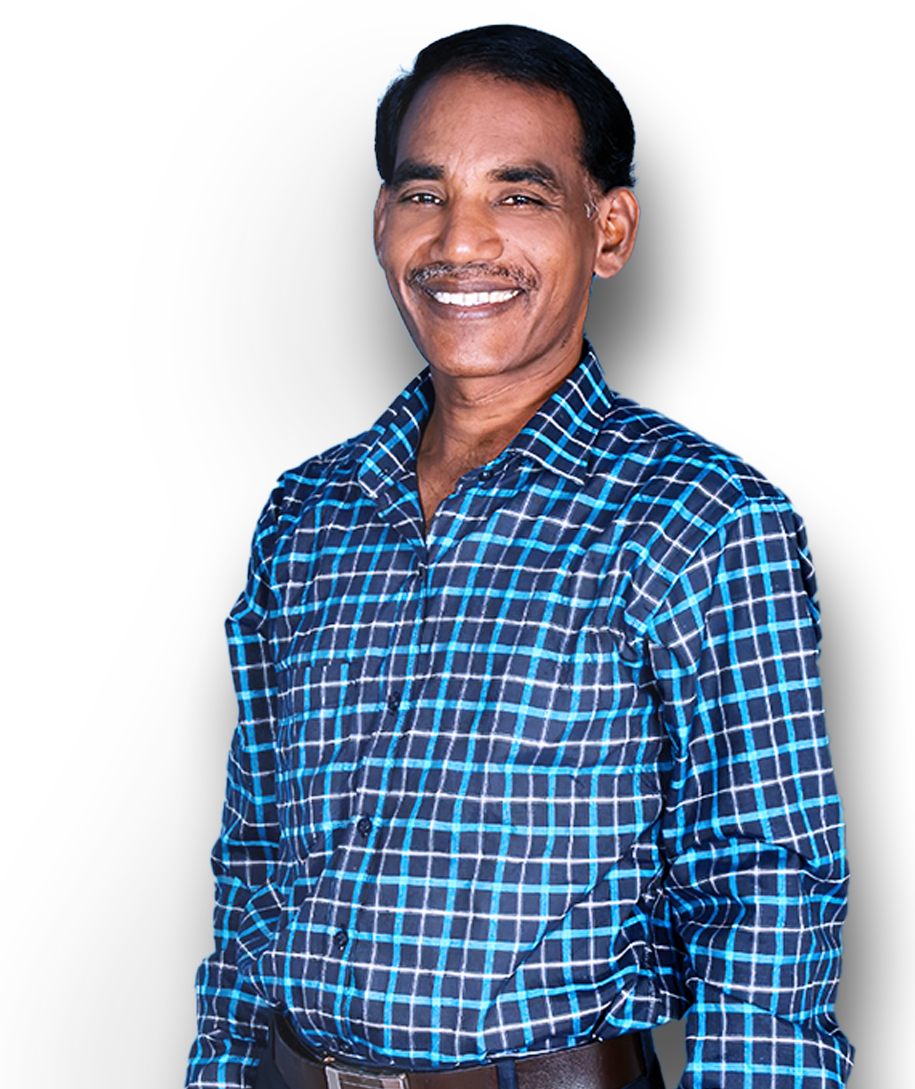
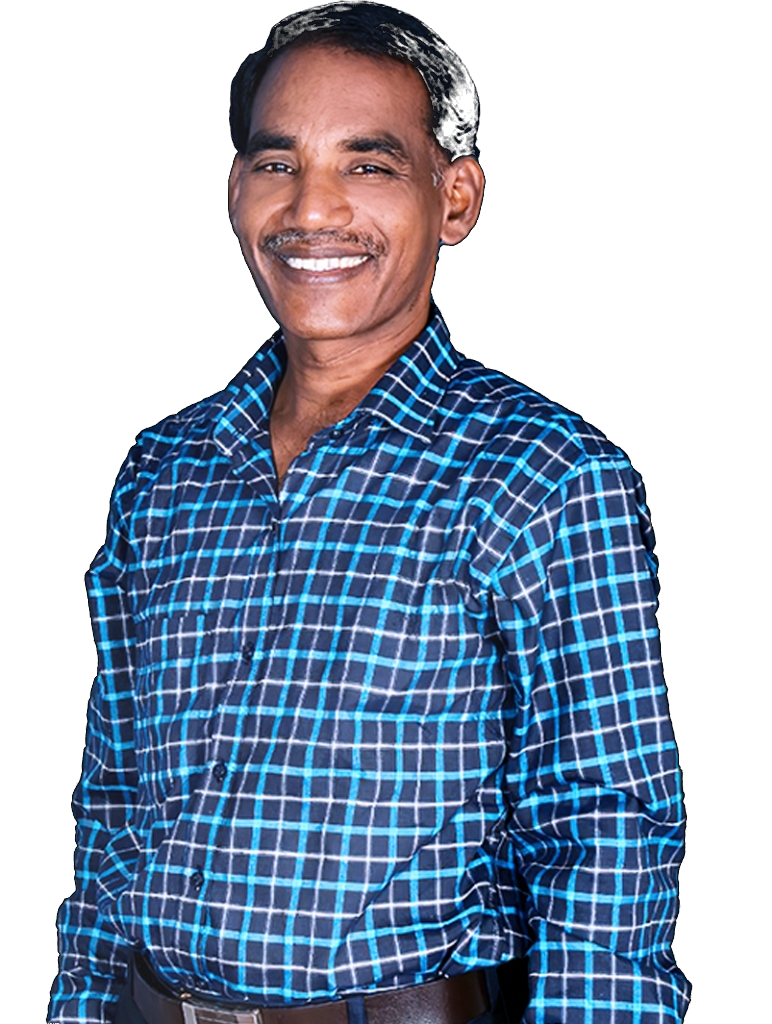
feat(pastors): update team cutout images for Pr. Sundar, Sis. Jency, and Sis. Machtalin via Cloudinary CDN

diff --git a/lib/cloudinaryLibrary.js b/lib/cloudinaryLibrary.js
@@ -71,10 +71,10 @@ export const CLOUDINARY_LIBRARY = {
     pastor13_Dan: "https://res.cloudinary.com/hqsoyezk/image/upload/f_auto,q_auto/v1793183088/flagweb/images/pastors/pastor-13_04_Dan.png",
     pastor14_Nag: "https://res.cloudinary.com/hqsoyezk/image/upload/f_auto,q_auto/v1793183089/flagweb/images/pastors/pastor-14_05_Nag.png",
     pastor15_Jos: "https://res.cloudinary.com/hqsoyezk/image/upload/f_auto,q_auto/v1793183091/flagweb/images/pastors/pastor-15_06_Jos.png",
-    pastor16_Sun: "https://res.cloudinary.com/hqsoyezk/image/upload/f_auto,q_auto/v1793183093/flagweb/images/pastors/pastor-16_07_Sun.png",
+    pastor16_Sun: "https://res.cloudinary.com/hqsoyezk/image/upload/f_auto,q_auto/v1794053125/flagweb/images/pastors/pastor-16_07_Sun.png",
     pastor17_Vic: "https://res.cloudinary.com/hqsoyezk/image/upload/f_auto,q_auto/v1793183095/flagweb/images/pastors/pastor-17_08_Vic.png",
-    pastor18_Jen: "https://res.cloudinary.com/hqsoyezk/image/upload/f_auto,q_auto/v1793183097/flagweb/images/pastors/pastor-18_09_Jen.png",
-    pastor19_Mac: "https://res.cloudinary.com/hqsoyezk/image/upload/f_auto,q_auto/v1793705863/flagweb/images/pastors/pastor-19_10_Mac.png",
+    pastor18_Jen: "https://res.cloudinary.com/hqsoyezk/image/upload/f_auto,q_auto/v1794053127/flagweb/images/pastors/pastor-18_09_Jen.png",
+    pastor19_Mac: "https://res.cloudinary.com/hqsoyezk/image/upload/f_auto,q_auto/v1794053128/flagweb/images/pastors/pastor-19_10_Mac.png",
   },
 
   // --------------------------------------------------------------------------
